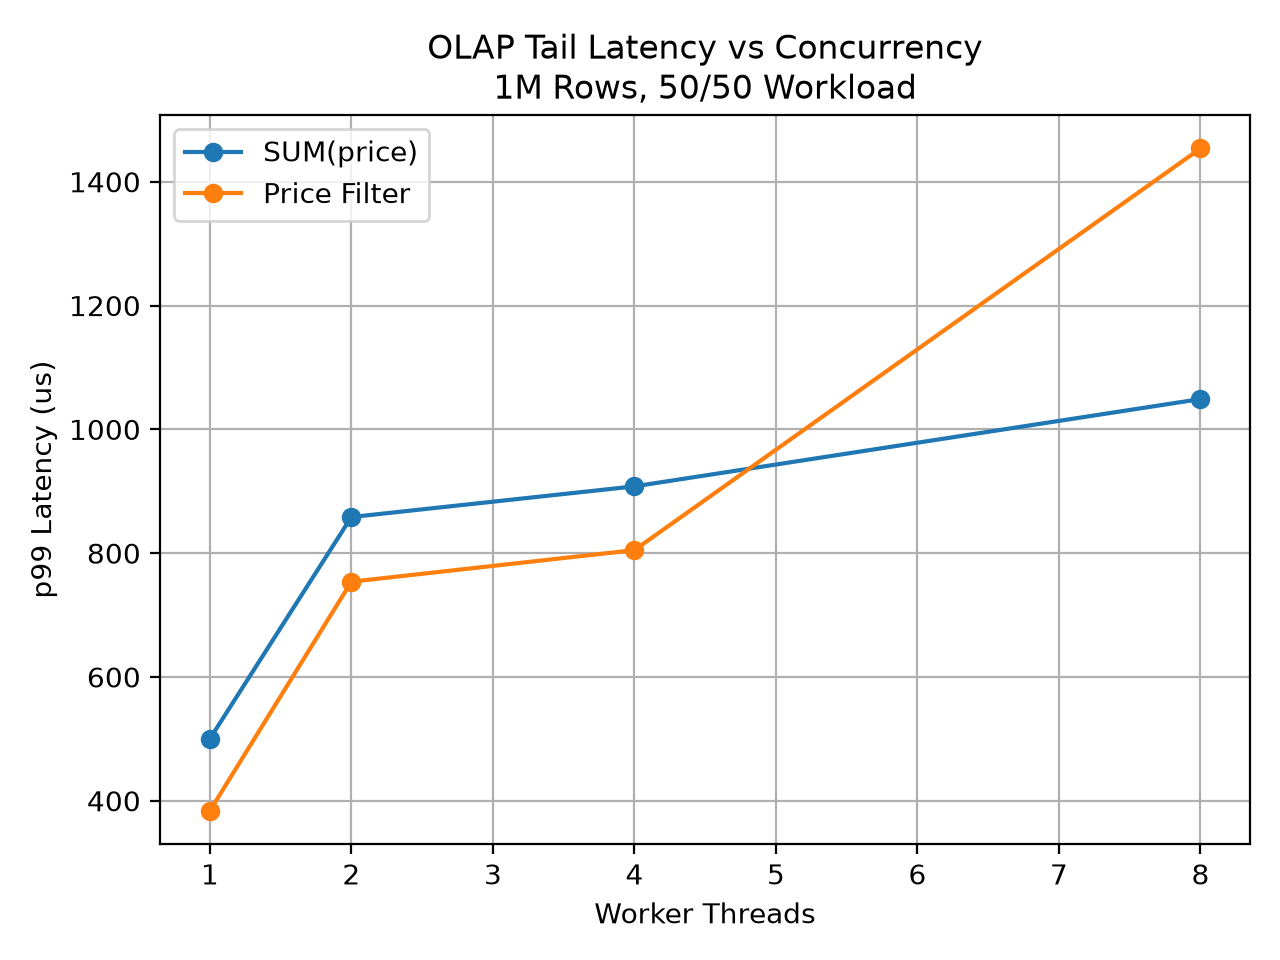
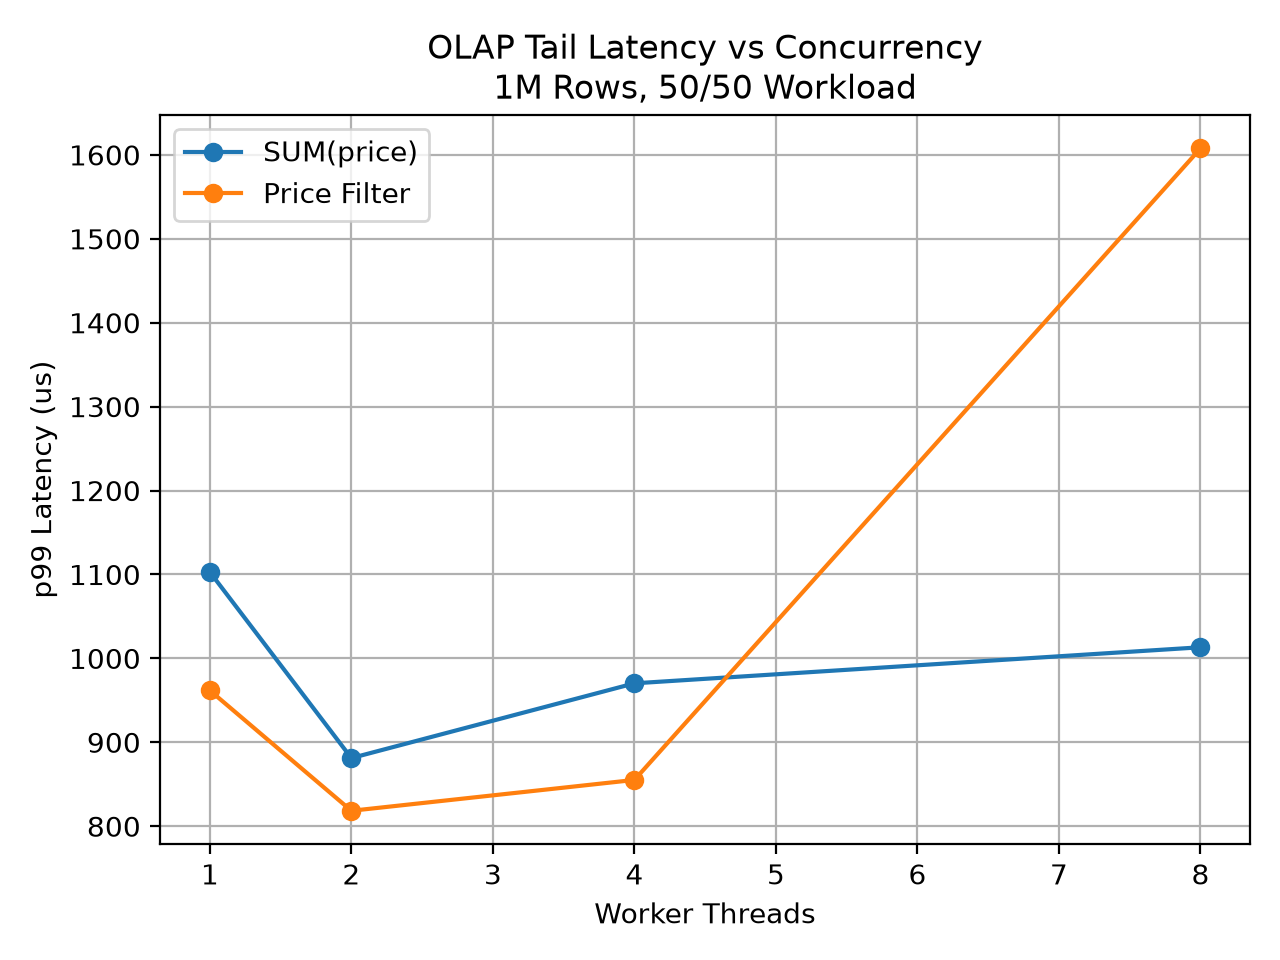
Regenerate benchmark plots from final summary CSV

diff --git a/scripts/plot_results.py b/scripts/plot_results.py
@@ -11,6 +11,8 @@ PLOT_DIR =os.path.join(ROOT, "results", "plots")
 os.makedirs(PLOT_DIR, exist_ok=True)
 df = pd.read_csv(SUMMARY)
 
+print("CSV loaded from:", SUMMARY)
+print("Columns:", list(df.columns))
 
 subset=df[(df["rows"] == 1000000) & (df["oltp_percent"]==50)]
 subset = subset.sort_values("thread")
@@ -20,50 +22,49 @@ plt.plot(subset["thread"], subset["total_throughput"], marker="o",)
 
 plt.xlabel("Worker Threads")
 plt.ylabel("Combined Throughput (ops/s)")
-plt.title("HTAP Throughput vs Concurrency\n"
-        "1M Rows, 50/50 Workload")
+plt.title("HTAP Throughput vs Concurrency\n1M Rows, 50/50 Workload")
 
 plt.grid(True)
 plt.tight_layout()
-plt.savefig(os.path.join(PLOT_DIR, "throughput_vs_thread.png",),dpi=200)
+plt.savefig(os.path.join(PLOT_DIR, "throughput_vs_thread.png"),dpi=200)
 plt.close()
 
+
+
+subset = df[(df["rows"] == 1000000) & (df["oltp_percent"] == 50)]
+subset = subset.sort_values("thread")
 plt.figure()
 
-plt.plot(subset["thread"], subset["olap_sum_p99"], marker="o", label="SUM(price)",)
-plt.plot(subset["thread"], subset["olap_filter_p99"], marker="o", label="Price Filter",)
+plt.plot(subset["thread"], subset["olap_sum_p99"], marker="o", label="SUM(price)")
+plt.plot(subset["thread"], subset["olap_filter_p99"], marker="o", label="Price Filter")
 
 plt.xlabel("Worker Threads")
 plt.ylabel("p99 Latency (us)")
-plt.title("OLAP Tail Latency vs Concurrency\n"
-          "1M Rows, 50/50 Workload")
+plt.title("OLAP Tail Latency vs Concurrency\n1M Rows, 50/50 Workload")
 
 plt.legend()
 plt.grid(True)
 
 plt.tight_layout()
-plt.savefig(os.path.join(PLOT_DIR, "olap_p99_vs_thread.png",),dpi=200,)
+plt.savefig(os.path.join(PLOT_DIR, "olap_p99_vs_thread.png"),dpi=200,)
 plt.close()
 
 subset_mix = df[(df["rows"]==1000000)&(df["thread"]==4)]
 subset_mix = subset_mix.sort_values("oltp_percent")
 plt.figure()
 
-plt.plot(subset_mix["oltp_percent"],
-        subset_mix["total_throughput"],
-        marker="o")
+plt.plot(subset_mix["oltp_percent"], subset_mix["total_throughput"], marker="o")
 
 plt.xlabel("OLTP Percentage")
 plt.ylabel("Combined THroughput (ops/s)")
-plt.title("Throught by HTAP Workload Mix\n"
-        "1M Rows, 4 Threads")
+plt.title("Throught by HTAP Workload Mix\n1M Rows, 4 Threads")
 
 plt.grid(True)
 plt.tight_layout()
-plt.savefig(os.path.join(PLOT_DIR, "throughput_by_workload.png",),dpi=200,)
+plt.savefig(os.path.join(PLOT_DIR, "throughput_by_workload.png"),dpi=200)
 
 plt.close()
 
-print("Plots sac=ved to::  ", PLOT_DIR,)
+print("Plots saved to::  ", PLOT_DIR)
 
 
